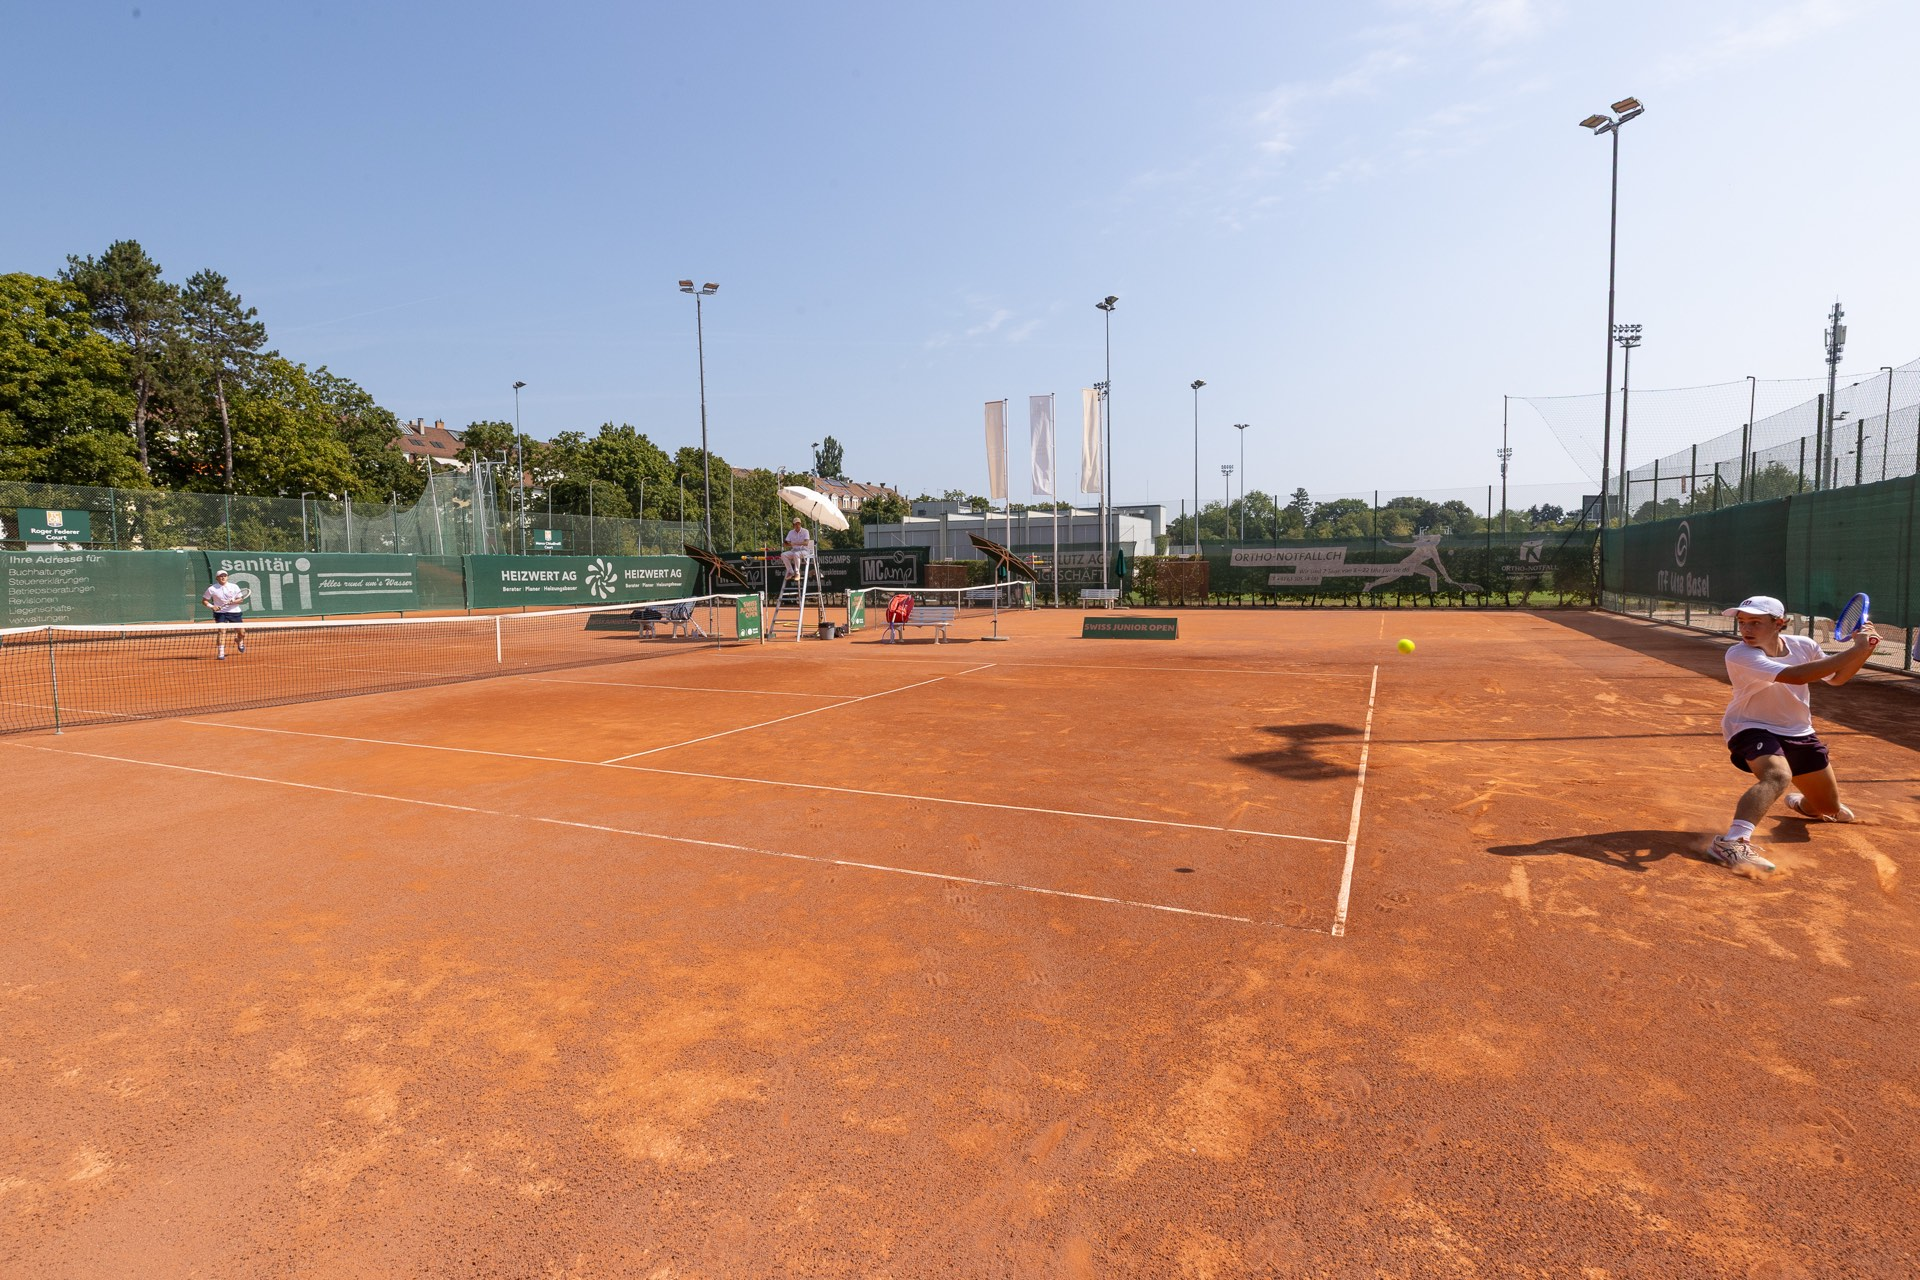
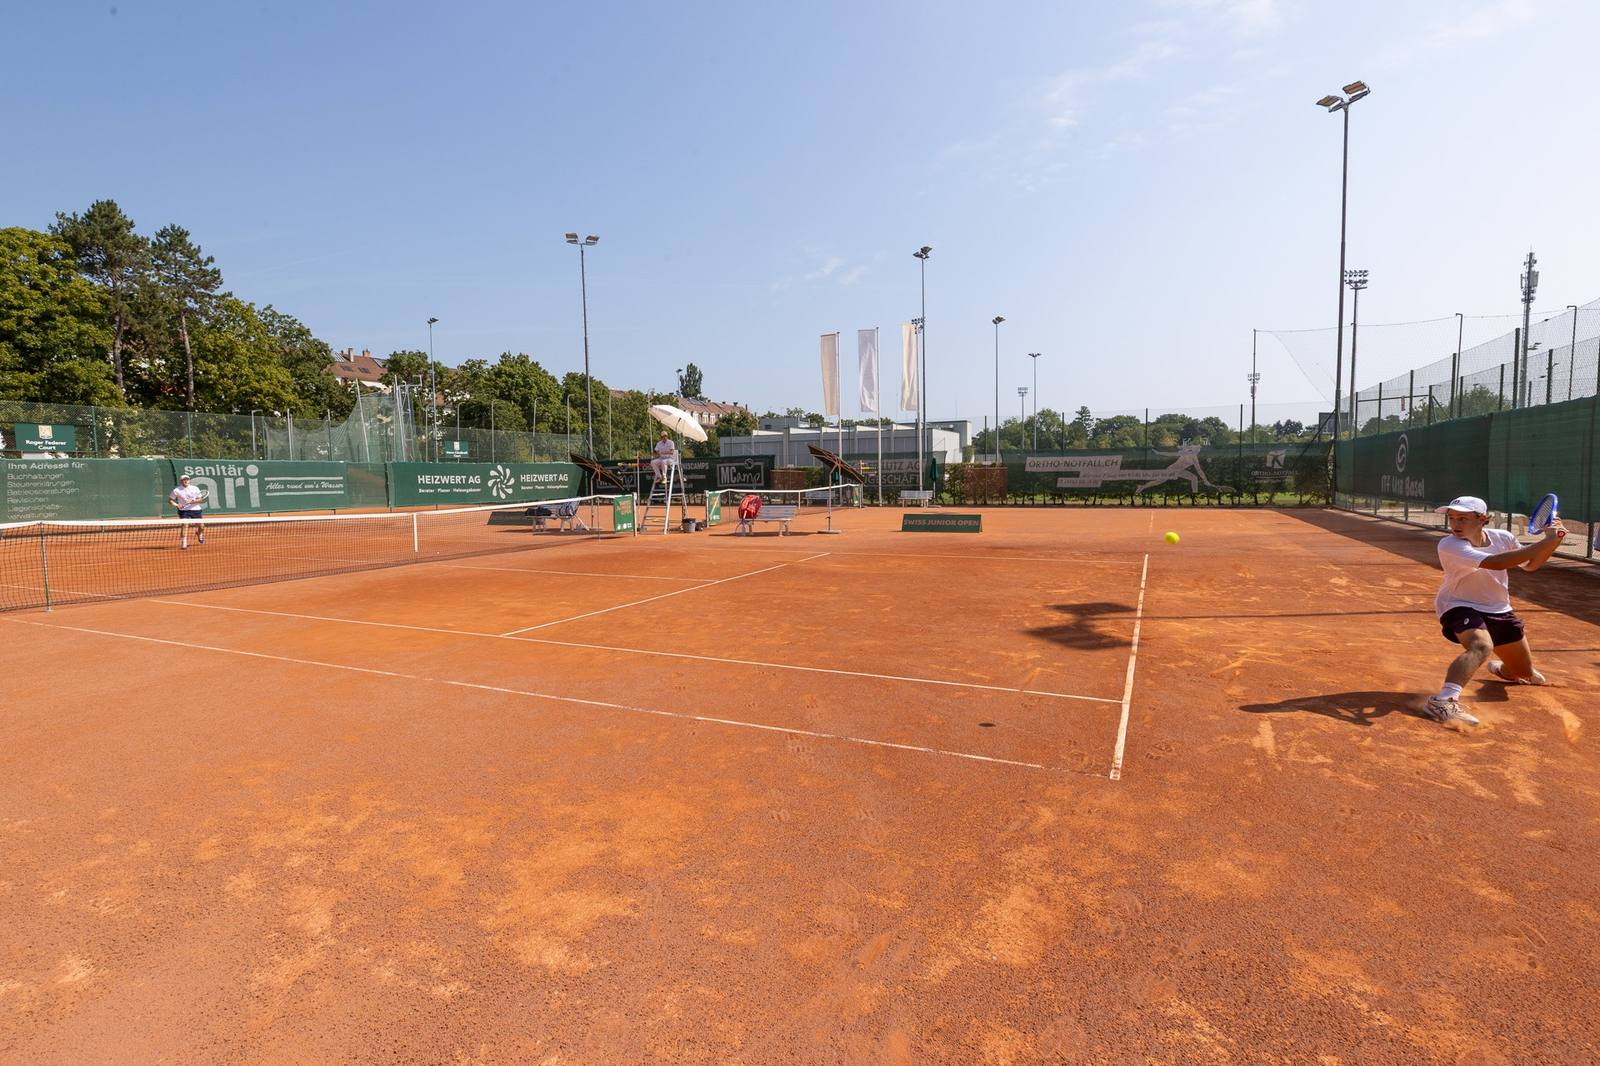
SEO-Grundlagen: Sitemap, robots.txt, Open Graph, strukturierte Daten, indexierbares Hero-Bild
Grösster Einzelfaktor fürs schlechte Ranking ist die neue, unbekannte
Domain (swissjunioropen.tennis) ohne Historie/Backlinks - das braucht
Zeit und Search-Console-Anmeldung, keine Code-Änderung. Diese Änderungen
beheben die technischen Lücken, die zusätzlich verhindert haben, dass
Google die Seite und ihre Bilder überhaupt sauber erfassen kann:

- robots.txt + sitemap.xml ergänzt (fehlten komplett, jede Anfrage auf
  diese Pfade lieferte bisher nur die Startseite als Fallback aus).
- Hero-Bild auf der Startseite war ein CSS-background-image ohne <img>-
  Tag und ohne Alt-Text - für Google Bildersuche praktisch unsichtbar.
  Jetzt ein echtes <img> mit beschreibendem Alt-Text.
- Open-Graph- und Twitter-Card-Tags (inkl. og:image) sowie ein
  Canonical-Link auf allen 14 Seiten ergänzt, fehlten bisher komplett.
- JSON-LD-Strukturdaten (schema.org/SportsEvent) auf der Startseite
  ergänzt: Datum, Ort, Bild, Veranstalter - hilft Google, die Seite als
  echtes, datiertes Sportevent statt generische Seite einzuordnen.
- sjo-hero.jpg (1920px, 612 KB) und sjo-anlage.jpg (1.2 MB) verkleinert/
  neu komprimiert (236 KB bzw. 620 KB) für schnellere Ladezeit, ohne
  sichtbaren Qualitätsverlust.

diff --git a/index.html b/index.html
@@ -6,10 +6,49 @@
 <title>Swiss Junior Open 2026 · World Tennis Junior Tour J200 Basel</title>
 <link rel="icon" type="image/png" href="assets/img/sjo-logo-mark.png">
 <meta name="description" content="Das höchstbewertete Nachwuchsturnier der Schweiz. World Tennis Junior Tour J200, 26. Juli bis 1. August 2026, TC Old Boys Basel.">
+<meta property="og:type" content="website">
+<meta property="og:url" content="https://swissjunioropen.tennis/">
+<meta property="og:title" content="Swiss Junior Open 2026 · World Tennis Junior Tour J200 Basel">
+<meta property="og:description" content="Das höchstbewertete Nachwuchsturnier der Schweiz. World Tennis Junior Tour J200, 26. Juli bis 1. August 2026, TC Old Boys Basel.">
+<meta property="og:image" content="https://swissjunioropen.tennis/assets/img/sjo-hero.jpg">
+<meta property="og:locale" content="de_CH">
+<meta name="twitter:card" content="summary_large_image">
+<link rel="canonical" href="https://swissjunioropen.tennis/">
 <link rel="preconnect" href="https://fonts.googleapis.com">
 <link rel="preconnect" href="https://fonts.gstatic.com" crossorigin>
 <link href="https://fonts.googleapis.com/css2?family=Paytone+One&family=Poppins:ital,wght@0,300;0,400;0,500;0,600;1,400&display=swap" rel="stylesheet">
 <link rel="stylesheet" href="assets/css/style.css">
+<script type="application/ld+json">
+{
+  "@context": "https://schema.org",
+  "@type": "SportsEvent",
+  "name": "Swiss Junior Open 2026",
+  "startDate": "2026-07-26",
+  "endDate": "2026-08-01",
+  "eventStatus": "https://schema.org/EventScheduled",
+  "eventAttendanceMode": "https://schema.org/OfflineEventAttendanceMode",
+  "sport": "Tennis",
+  "url": "https://swissjunioropen.tennis/",
+  "image": ["https://swissjunioropen.tennis/assets/img/sjo-hero.jpg"],
+  "description": "Das höchstbewertete Nachwuchsturnier der Schweiz. World Tennis Junior Tour J200, 26. Juli bis 1. August 2026, TC Old Boys Basel.",
+  "location": {
+    "@type": "Place",
+    "name": "TC Old Boys Basel",
+    "address": {
+      "@type": "PostalAddress",
+      "streetAddress": "St. Galler-Ring 225",
+      "postalCode": "4054",
+      "addressLocality": "Basel",
+      "addressCountry": "CH"
+    }
+  },
+  "organizer": {
+    "@type": "Organization",
+    "name": "TC Old Boys Basel",
+    "url": "https://swissjunioropen.tennis/"
+  }
+}
+</script>
 </head>
 <body>
 
@@ -41,7 +80,9 @@
 </div>
 
 <header class="hero">
-  <div class="hero-bg" style="background-image:url('assets/img/sjo-hero.jpg')"></div>
+  <div class="hero-bg">
+    <img src="assets/img/sjo-hero.jpg" alt="Juniorenspieler beim Rückhand-Return auf dem Sandplatz des Swiss Junior Open am TC Old Boys Basel" fetchpriority="high">
+  </div>
   <div class="wrap hero-content">
     <span class="eyebrow">World Tennis Junior Tour · J200</span>
     <h1>Die Bühne für die Tennisstars von morgen.</h1>

diff --git a/turnier/hall-of-fame/index.html b/turnier/hall-of-fame/index.html
@@ -6,6 +6,14 @@
 <title>Hall of Fame · Swiss Junior Open</title>
 <link rel="icon" type="image/png" href="../../assets/img/sjo-logo-mark.png">
 <meta name="description" content="Sprungbrett für internationale Profikarrieren: die Hall of Fame des Swiss Junior Open.">
+<meta property="og:type" content="website">
+<meta property="og:url" content="https://swissjunioropen.tennis/turnier/hall-of-fame/">
+<meta property="og:title" content="Hall of Fame · Swiss Junior Open">
+<meta property="og:description" content="Sprungbrett für internationale Profikarrieren: die Hall of Fame des Swiss Junior Open.">
+<meta property="og:image" content="https://swissjunioropen.tennis/assets/img/sjo-hero.jpg">
+<meta property="og:locale" content="de_CH">
+<meta name="twitter:card" content="summary_large_image">
+<link rel="canonical" href="https://swissjunioropen.tennis/turnier/hall-of-fame/">
 <link rel="preconnect" href="https://fonts.googleapis.com">
 <link rel="preconnect" href="https://fonts.gstatic.com" crossorigin>
 <link href="https://fonts.googleapis.com/css2?family=Paytone+One&family=Poppins:ital,wght@0,300;0,400;0,500;0,600;1,400&display=swap" rel="stylesheet">

diff --git a/turnier/hospitality/index.html b/turnier/hospitality/index.html
@@ -6,6 +6,14 @@
 <title>Hospitality · Swiss Junior Open</title>
 <link rel="icon" type="image/png" href="../../assets/img/sjo-logo-mark.png">
 <meta name="description" content="Unterkunft für Hauptfeld-Spielerinnen und -Spieler beim Swiss Junior Open.">
+<meta property="og:type" content="website">
+<meta property="og:url" content="https://swissjunioropen.tennis/turnier/hospitality/">
+<meta property="og:title" content="Hospitality · Swiss Junior Open">
+<meta property="og:description" content="Unterkunft für Hauptfeld-Spielerinnen und -Spieler beim Swiss Junior Open.">
+<meta property="og:image" content="https://swissjunioropen.tennis/assets/img/sjo-hero.jpg">
+<meta property="og:locale" content="de_CH">
+<meta name="twitter:card" content="summary_large_image">
+<link rel="canonical" href="https://swissjunioropen.tennis/turnier/hospitality/">
 <link rel="preconnect" href="https://fonts.googleapis.com">
 <link rel="preconnect" href="https://fonts.gstatic.com" crossorigin>
 <link href="https://fonts.googleapis.com/css2?family=Paytone+One&family=Poppins:ital,wght@0,300;0,400;0,500;0,600;1,400&display=swap" rel="stylesheet">

diff --git a/turnier/resultate/2022/index.html b/turnier/resultate/2022/index.html
@@ -6,6 +6,14 @@
 <title>Resultate 2022 · Swiss Junior Open</title>
 <link rel="icon" type="image/png" href="../../../assets/img/sjo-logo-mark.png">
 <meta name="description" content="Draws und Ergebnisse der Ausgabe 2022 des Swiss Junior Open.">
+<meta property="og:type" content="website">
+<meta property="og:url" content="https://swissjunioropen.tennis/turnier/resultate/2022/">
+<meta property="og:title" content="Resultate 2022 · Swiss Junior Open">
+<meta property="og:description" content="Draws und Ergebnisse der Ausgabe 2022 des Swiss Junior Open.">
+<meta property="og:image" content="https://swissjunioropen.tennis/assets/img/sjo-hero.jpg">
+<meta property="og:locale" content="de_CH">
+<meta name="twitter:card" content="summary_large_image">
+<link rel="canonical" href="https://swissjunioropen.tennis/turnier/resultate/2022/">
 <link rel="preconnect" href="https://fonts.googleapis.com">
 <link rel="preconnect" href="https://fonts.gstatic.com" crossorigin>
 <link href="https://fonts.googleapis.com/css2?family=Paytone+One&family=Poppins:ital,wght@0,300;0,400;0,500;0,600;1,400&display=swap" rel="stylesheet">

diff --git a/turnier/resultate/2023/index.html b/turnier/resultate/2023/index.html
@@ -6,6 +6,14 @@
 <title>Resultate 2023 · Swiss Junior Open</title>
 <link rel="icon" type="image/png" href="../../../assets/img/sjo-logo-mark.png">
 <meta name="description" content="Draws und Ergebnisse der Ausgabe 2023 des Swiss Junior Open.">
+<meta property="og:type" content="website">
+<meta property="og:url" content="https://swissjunioropen.tennis/turnier/resultate/2023/">
+<meta property="og:title" content="Resultate 2023 · Swiss Junior Open">
+<meta property="og:description" content="Draws und Ergebnisse der Ausgabe 2023 des Swiss Junior Open.">
+<meta property="og:image" content="https://swissjunioropen.tennis/assets/img/sjo-hero.jpg">
+<meta property="og:locale" content="de_CH">
+<meta name="twitter:card" content="summary_large_image">
+<link rel="canonical" href="https://swissjunioropen.tennis/turnier/resultate/2023/">
 <link rel="preconnect" href="https://fonts.googleapis.com">
 <link rel="preconnect" href="https://fonts.gstatic.com" crossorigin>
 <link href="https://fonts.googleapis.com/css2?family=Paytone+One&family=Poppins:ital,wght@0,300;0,400;0,500;0,600;1,400&display=swap" rel="stylesheet">

diff --git a/turnier/resultate/2024/index.html b/turnier/resultate/2024/index.html
@@ -6,6 +6,14 @@
 <title>Resultate 2024 · Swiss Junior Open</title>
 <link rel="icon" type="image/png" href="../../../assets/img/sjo-logo-mark.png">
 <meta name="description" content="Draws und Ergebnisse der Ausgabe 2024 des Swiss Junior Open.">
+<meta property="og:type" content="website">
+<meta property="og:url" content="https://swissjunioropen.tennis/turnier/resultate/2024/">
+<meta property="og:title" content="Resultate 2024 · Swiss Junior Open">
+<meta property="og:description" content="Draws und Ergebnisse der Ausgabe 2024 des Swiss Junior Open.">
+<meta property="og:image" content="https://swissjunioropen.tennis/assets/img/sjo-hero.jpg">
+<meta property="og:locale" content="de_CH">
+<meta name="twitter:card" content="summary_large_image">
+<link rel="canonical" href="https://swissjunioropen.tennis/turnier/resultate/2024/">
 <link rel="preconnect" href="https://fonts.googleapis.com">
 <link rel="preconnect" href="https://fonts.gstatic.com" crossorigin>
 <link href="https://fonts.googleapis.com/css2?family=Paytone+One&family=Poppins:ital,wght@0,300;0,400;0,500;0,600;1,400&display=swap" rel="stylesheet">

diff --git a/turnier/resultate/2025/index.html b/turnier/resultate/2025/index.html
@@ -6,6 +6,14 @@
 <title>Resultate 2025 · Swiss Junior Open</title>
 <link rel="icon" type="image/png" href="../../../assets/img/sjo-logo-mark.png">
 <meta name="description" content="Draws und Ergebnisse der Ausgabe 2025 des Swiss Junior Open.">
+<meta property="og:type" content="website">
+<meta property="og:url" content="https://swissjunioropen.tennis/turnier/resultate/2025/">
+<meta property="og:title" content="Resultate 2025 · Swiss Junior Open">
+<meta property="og:description" content="Draws und Ergebnisse der Ausgabe 2025 des Swiss Junior Open.">
+<meta property="og:image" content="https://swissjunioropen.tennis/assets/img/sjo-hero.jpg">
+<meta property="og:locale" content="de_CH">
+<meta name="twitter:card" content="summary_large_image">
+<link rel="canonical" href="https://swissjunioropen.tennis/turnier/resultate/2025/">
 <link rel="preconnect" href="https://fonts.googleapis.com">
 <link rel="preconnect" href="https://fonts.gstatic.com" crossorigin>
 <link href="https://fonts.googleapis.com/css2?family=Paytone+One&family=Poppins:ital,wght@0,300;0,400;0,500;0,600;1,400&display=swap" rel="stylesheet">

diff --git a/turnier/resultate/2026/index.html b/turnier/resultate/2026/index.html
@@ -6,6 +6,14 @@
 <title>Resultate 2026 · Swiss Junior Open</title>
 <link rel="icon" type="image/png" href="../../../assets/img/sjo-logo-mark.png">
 <meta name="description" content="Draws und Ergebnisse der Ausgabe 2026 des Swiss Junior Open.">
+<meta property="og:type" content="website">
+<meta property="og:url" content="https://swissjunioropen.tennis/turnier/resultate/2026/">
+<meta property="og:title" content="Resultate 2026 · Swiss Junior Open">
+<meta property="og:description" content="Draws und Ergebnisse der Ausgabe 2026 des Swiss Junior Open.">
+<meta property="og:image" content="https://swissjunioropen.tennis/assets/img/sjo-hero.jpg">
+<meta property="og:locale" content="de_CH">
+<meta name="twitter:card" content="summary_large_image">
+<link rel="canonical" href="https://swissjunioropen.tennis/turnier/resultate/2026/">
 <link rel="preconnect" href="https://fonts.googleapis.com">
 <link rel="preconnect" href="https://fonts.gstatic.com" crossorigin>
 <link href="https://fonts.googleapis.com/css2?family=Paytone+One&family=Poppins:ital,wght@0,300;0,400;0,500;0,600;1,400&display=swap" rel="stylesheet">

diff --git a/turnier/anreise/index.html b/turnier/anreise/index.html
@@ -6,6 +6,14 @@
 <title>Anreise · Swiss Junior Open</title>
 <link rel="icon" type="image/png" href="../../assets/img/sjo-logo-mark.png">
 <meta name="description" content="Anreise zum TC Old Boys Basel, Austragungsort des Swiss Junior Open.">
+<meta property="og:type" content="website">
+<meta property="og:url" content="https://swissjunioropen.tennis/turnier/anreise/">
+<meta property="og:title" content="Anreise · Swiss Junior Open">
+<meta property="og:description" content="Anreise zum TC Old Boys Basel, Austragungsort des Swiss Junior Open.">
+<meta property="og:image" content="https://swissjunioropen.tennis/assets/img/sjo-anlage.jpg">
+<meta property="og:locale" content="de_CH">
+<meta name="twitter:card" content="summary_large_image">
+<link rel="canonical" href="https://swissjunioropen.tennis/turnier/anreise/">
 <link rel="preconnect" href="https://fonts.googleapis.com">
 <link rel="preconnect" href="https://fonts.gstatic.com" crossorigin>
 <link href="https://fonts.googleapis.com/css2?family=Paytone+One&family=Poppins:ital,wght@0,300;0,400;0,500;0,600;1,400&display=swap" rel="stylesheet">

diff --git a/turnier/resultate/index.html b/turnier/resultate/index.html
@@ -6,6 +6,14 @@
 <title>Resultate · Swiss Junior Open</title>
 <link rel="icon" type="image/png" href="../../assets/img/sjo-logo-mark.png">
 <meta name="description" content="Draws und Ergebnisse des Swiss Junior Open, 2022 bis 2026.">
+<meta property="og:type" content="website">
+<meta property="og:url" content="https://swissjunioropen.tennis/turnier/resultate/">
+<meta property="og:title" content="Resultate · Swiss Junior Open">
+<meta property="og:description" content="Draws und Ergebnisse des Swiss Junior Open, 2022 bis 2026.">
+<meta property="og:image" content="https://swissjunioropen.tennis/assets/img/sjo-hero.jpg">
+<meta property="og:locale" content="de_CH">
+<meta name="twitter:card" content="summary_large_image">
+<link rel="canonical" href="https://swissjunioropen.tennis/turnier/resultate/">
 <link rel="preconnect" href="https://fonts.googleapis.com">
 <link rel="preconnect" href="https://fonts.gstatic.com" crossorigin>
 <link href="https://fonts.googleapis.com/css2?family=Paytone+One&family=Poppins:ital,wght@0,300;0,400;0,500;0,600;1,400&display=swap" rel="stylesheet">

diff --git a/turnier/fact-sheet/index.html b/turnier/fact-sheet/index.html
@@ -6,6 +6,14 @@
 <title>Fact Sheet · Swiss Junior Open</title>
 <link rel="icon" type="image/png" href="../../assets/img/sjo-logo-mark.png">
 <meta name="description" content="Alle Eckdaten des Swiss Junior Open auf einen Blick.">
+<meta property="og:type" content="website">
+<meta property="og:url" content="https://swissjunioropen.tennis/turnier/fact-sheet/">
+<meta property="og:title" content="Fact Sheet · Swiss Junior Open">
+<meta property="og:description" content="Alle Eckdaten des Swiss Junior Open auf einen Blick.">
+<meta property="og:image" content="https://swissjunioropen.tennis/assets/img/sjo-hero.jpg">
+<meta property="og:locale" content="de_CH">
+<meta name="twitter:card" content="summary_large_image">
+<link rel="canonical" href="https://swissjunioropen.tennis/turnier/fact-sheet/">
 <link rel="preconnect" href="https://fonts.googleapis.com">
 <link rel="preconnect" href="https://fonts.gstatic.com" crossorigin>
 <link href="https://fonts.googleapis.com/css2?family=Paytone+One&family=Poppins:ital,wght@0,300;0,400;0,500;0,600;1,400&display=swap" rel="stylesheet">

diff --git a/turnier/format/index.html b/turnier/format/index.html
@@ -6,6 +6,14 @@
 <title>Format · Swiss Junior Open</title>
 <link rel="icon" type="image/png" href="../../assets/img/sjo-logo-mark.png">
 <meta name="description" content="Qualifikation, Hauptfeld und Finaltag des Swiss Junior Open.">
+<meta property="og:type" content="website">
+<meta property="og:url" content="https://swissjunioropen.tennis/turnier/format/">
+<meta property="og:title" content="Format · Swiss Junior Open">
+<meta property="og:description" content="Qualifikation, Hauptfeld und Finaltag des Swiss Junior Open.">
+<meta property="og:image" content="https://swissjunioropen.tennis/assets/img/sjo-hero.jpg">
+<meta property="og:locale" content="de_CH">
+<meta name="twitter:card" content="summary_large_image">
+<link rel="canonical" href="https://swissjunioropen.tennis/turnier/format/">
 <link rel="preconnect" href="https://fonts.googleapis.com">
 <link rel="preconnect" href="https://fonts.gstatic.com" crossorigin>
 <link href="https://fonts.googleapis.com/css2?family=Paytone+One&family=Poppins:ital,wght@0,300;0,400;0,500;0,600;1,400&display=swap" rel="stylesheet">
